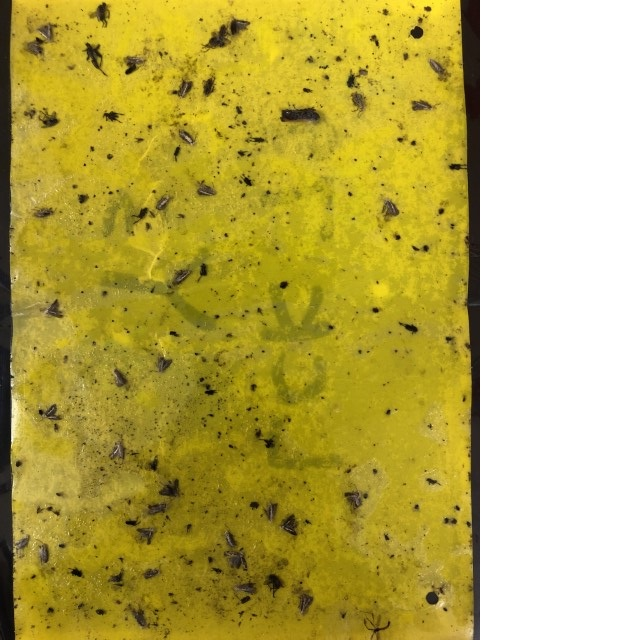
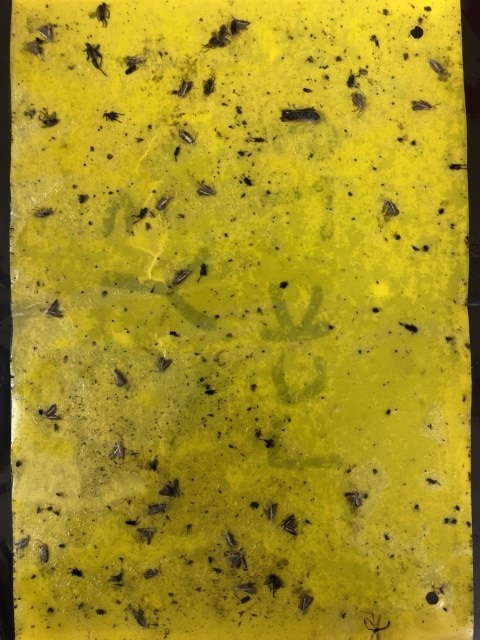
Second commit

diff --git a/resize_images.py b/resize_images.py
@@ -26,7 +26,7 @@ if __name__ == "__main__":
     parser.add_argument(
         "--target-size",
         help="Target size to resize as a tuple of 2 integers.",
-        default="(800, 600)",
+        default="(600, 600)",
         type=str,
     )
     args = parser.parse_args()
